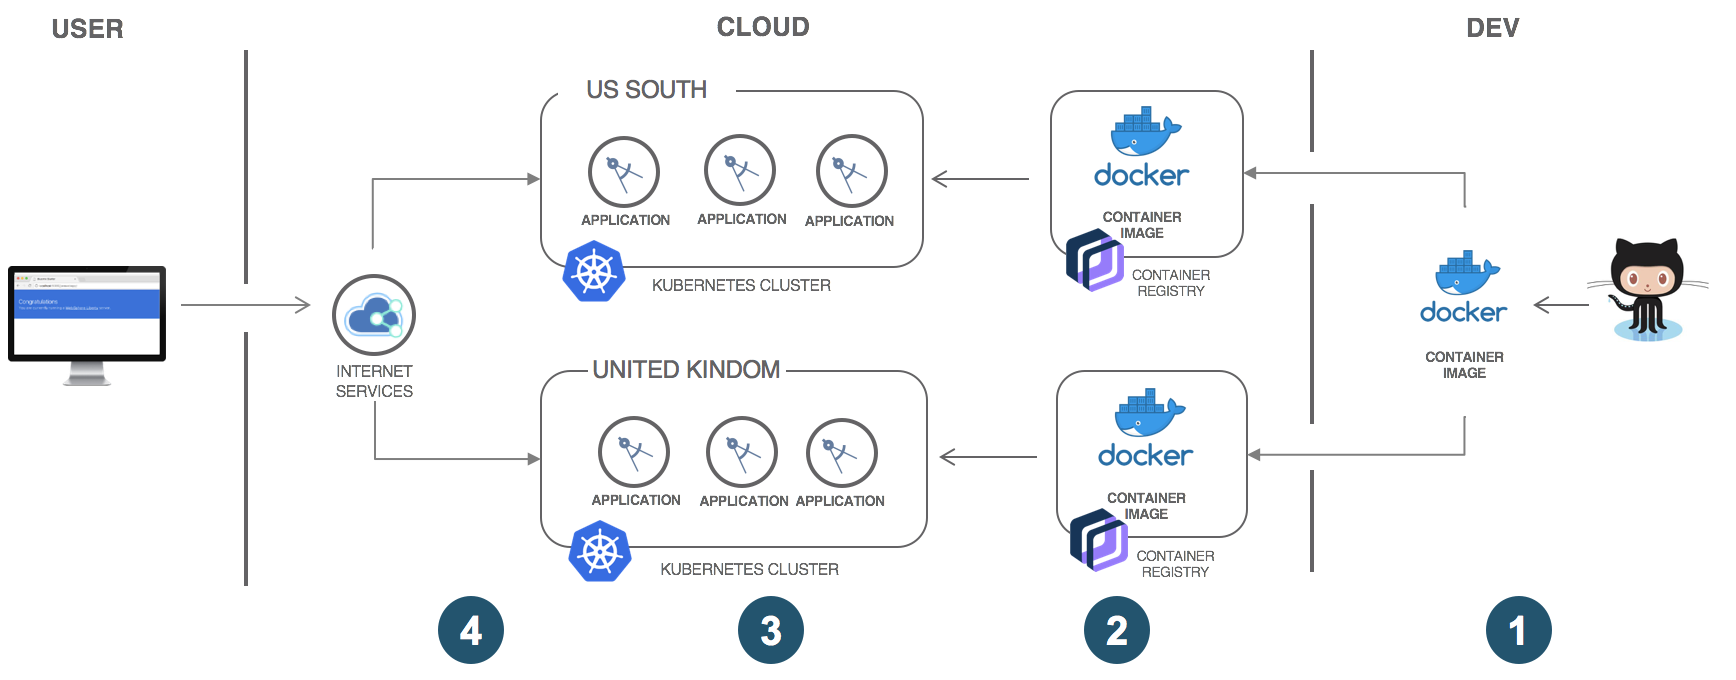
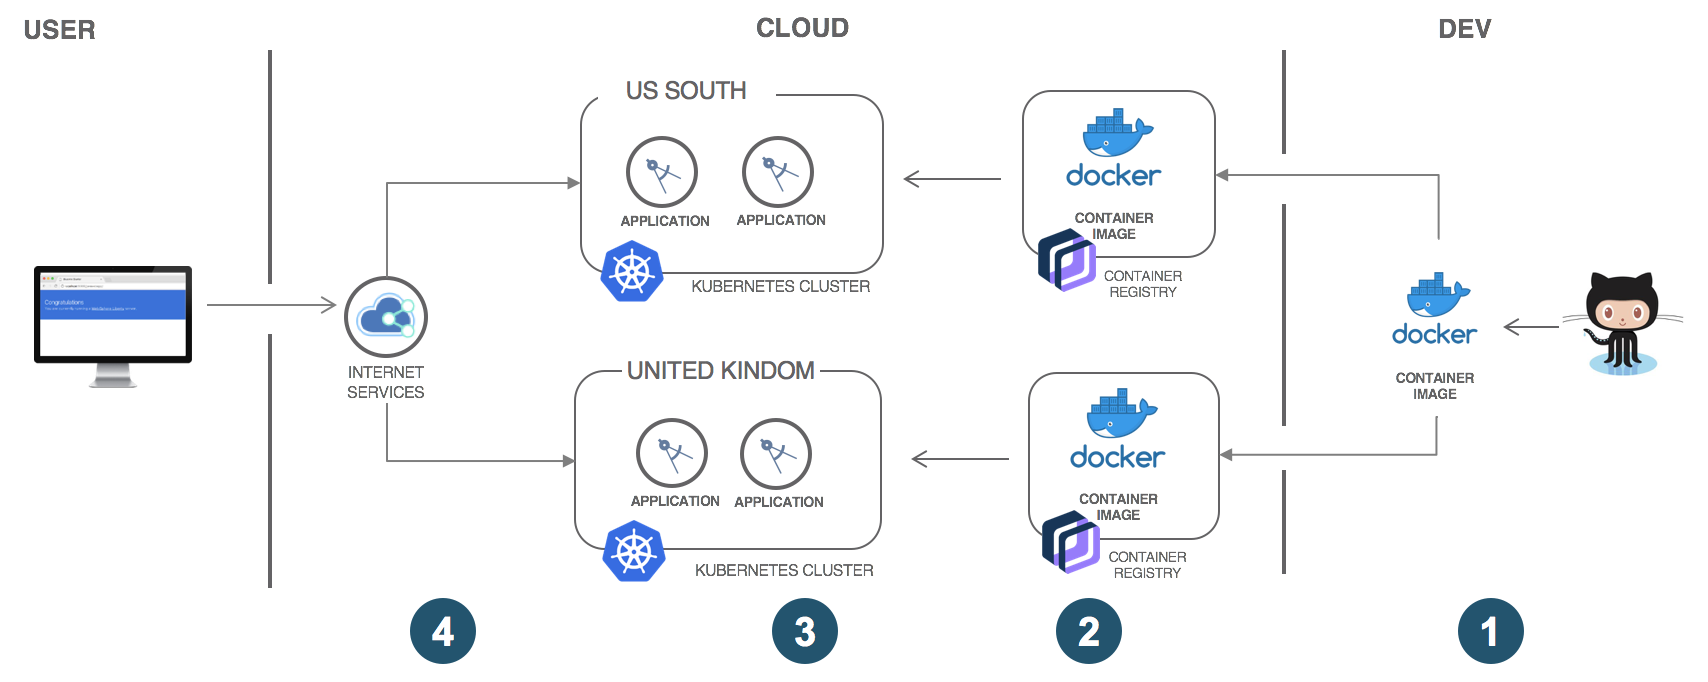
update: images

diff --git a/multi-region-k8s-cis.md b/multi-region-k8s-cis.md
@@ -53,7 +53,7 @@ This tutorial would incur costs. Use the [Pricing Calculator](https://console.bl
   ![Architecture](images/other/cis-iks.Architecture.png)
 </p>
 
-First of all, create IKS clusters across multiple regions and instance of CIS, then -
+First of all, ensure IKS cluster and instance of CIS are available. Or, create IKS clusters across multiple regions and instance of CIS. After that
 
 1. The developer builds the application produces a Docker container image and pushes the image to IBM Container Registry
 
@@ -72,24 +72,8 @@ First of all, create IKS clusters across multiple regions and instance of CIS, t
 * [Set up the {{site.data.keyword.registrylong_notm}} CLI and your registry namespace](https://console.bluemix.net/docs/services/Registry/registry_setup_cli_namespace.html)
 * [Understand the basics of Kubernetes](https://kubernetes.io/docs/tutorials/kubernetes-basics/)
 
-## Create Kubernetes clusters
-{: #create_clusters}
-
-### Create Kubernetes cluster in one region, e.g.`United Kingdom`
-1. Create **Containers in Kubernetes Clusters** from the [{{site.data.keyword.Bluemix}} catalog](https://console.bluemix.net/containers-kubernetes/catalog/cluster/create) and choose the **Standard** cluster.
-
-   ![Kubernetes Cluster Creation on IBM Cloud](images/other/IKS.Cluster.Creation.GUI.png)
-2. Select **Region** `United Kingdom`. For convenience, use the name 　*`my-<region>-cluster`* to be consistent with this tutorial, specify *\<region>* to match with region selected, e.g. *uk* so cluster name looks like *my-uk-cluster*.
-3. The smallest **Machine type** with 2 **CPUs** and 4 **GB RAM** is sufficient for this tutorial. Select 2 **Worker node** and leave all other options set to defaults. Click **Create Cluster**.
-4. Check the status of your **Cluster** and **Worker Node** and wait for them to be **ready**.
-
-### Create Kubernetes cluster in other regions, e.g.`US South`
-* Repeat steps above for the other region you'd like to have cluster by selecting different **region**, e.g. `US South`, specify cluster name `my-<region>-cluster`, \<region> could be *us*
-
-**NOTE:** Do not proceed until your workers are ready.
-
 ## Create Instance of IBM Cloud Internet Services and register the custom domain 
-{: #domain_cis}
+{: #create_cis_instance}
 
 Cloud Internet Servcies(CIS) is one stop-shop service providing GLB, Caching, WAF/Page rule to secure your applications when ensurig the reliability and performace for your Cloud applicatios. 1st step to create instance per domain and then register the domain.
 
@@ -103,14 +87,30 @@ Cloud Internet Servcies(CIS) is one stop-shop service providing GLB, Caching, WA
     When the domain's status on the Overview page changes from *Pending* to *Active*, you can use the `dig <your_domain_name> ns` command to verify that the IBM Cloud name servers have taken effect.
     {:tip}
 
-## Target IBM Cloud CLI for your cluster and login IBM Cloud Registry correspondingnly
+## Create Kubernetes clusters
+{: #create_clusters}
+
+### Create Kubernetes cluster in one region, e.g.`United Kingdom`
+1. Create **Containers in Kubernetes Clusters** from the [{{site.data.keyword.Bluemix}} catalog](https://console.bluemix.net/containers-kubernetes/catalog/cluster/create) and choose the **Standard** cluster.
+
+   ![Kubernetes Cluster Creation on IBM Cloud](images/other/IKS.Cluster.Creation.GUI.png)
+2. Select **Region** `United Kingdom`. For convenience, use the name 　*`my-<region>-cluster`* to be consistent with this tutorial, specify *\<region>* to match with region selected, e.g. *uk* so cluster name looks like *my-uk-cluster*.
+3. The smallest **Machine type** with 2 **CPUs** and 4 **GB RAM** is sufficient for this tutorial. Select 2 **Worker nodes** and leave all other options set to defaults. Click **Create Cluster**.
+4. Check the status of your **Cluster** and **Worker Node** and wait for them to be **ready**.
+
+### Create Kubernetes cluster in other regions, e.g.`US South`
+* Repeat steps above for the other region you'd like to have cluster by selecting different **region**, e.g. `US South`, specify cluster name `my-<region>-cluster`, \<region> could be *us*
+
+**NOTE:** Do not proceed until your workers are ready.
+
+## Target IBM Cloud CLI for your cluster and login IBM Cloud Registry correspondingly
 {: #prep_steps}
 
 IBM Cloud CLI is working environment for Kuberetes cluster, different context of CLI for different Kuberetes cluster. Ensure to work with the resources within cluster context for specific Kubernetes cluster, such as deployment, services, pod, etc..
 
 **Notes:** Don't switch IBM Cloud CLI context until needed resources configured for your specific Kubernetes cluster. Since there are different clusters across multiple regions, repeat this step for clusters one by one which contain the applications being as the target for distributed requests from load balancer. 
 
-### Login IBM Cloud CLI and Set context for kubenetes cluster in your CLI
+### Login IBM Cloud CLI and set context for kubenetes cluster in your CLI
 1. Get the command to set the environment variable and download the Kubernetes configuration files.
     ```bash
     bx cs cluster-config <cluster_name_or_ID>
@@ -179,7 +179,7 @@ This step shows how to prepare Docker image for Kubernetes cluster containerized
 ### Scale up and expose service for access
 1. A `replica` is how Kubernetes accomplishes scaling out a deployment. A replica is a copy of a pod that already contains a running service. By having multiple replicas of a pod, you can ensure your deployment has the available resources to handle increasing load on your application.
     ```bash
-    kubectl scale deployment/hello-world-deployment --replicas=3
+    kubectl scale deployment/hello-world-deployment --replicas=2
     ```
      {: pre}
 2. Make the app accessible by exposing the deployment as a NodePort service. 
@@ -204,7 +204,7 @@ For now, your applications have been running within the kubernetes clusters acro
 ### Create Global Load Balancer of Cloud Internet Services
 {: #add_glb}
 
-#### Before creating a GLB, create a health check for the GLB.
+#### Before creating GLB, create health check for the GLB.
 
 1. In the Cloud Internet Services application, navigate to **Reliability** > **Global Load Balancer**, and at the bottom of the page, click **Create health check**.
 2. Enter the path that you want to monitor, for example, `/`, and select a type (HTTP or HTTPS). Typically you can create a dedicated health endpoint. Click **Provision 1 Instance**.
@@ -218,7 +218,7 @@ Repeat below five steps to create multple pools per your requirements. The origi
 5. Click **Provision 1 Instance**.
 
 
-#### Create a Global Load Balancer (GLB). 
+#### Create Global Load Balancer (GLB). 
 
 1. Click **Create Load Balancer**. 
 2. Enter a name under **Balancer hostname** for the Global Load Balancer. This name will also be part of your universal application URL (`http://<glb_name>.<your_domain_name>`), regardless of the region. 
@@ -250,15 +250,15 @@ Ingress resource is Kubernetes resource and managed by the IBM-provided applicat
             paths:
             - path: /
               backend:
-                serviceName: <application-service-name> 
+                serviceName: <application-service-name> 
                 servicePort: 80
     ```
-* Create Ingress resource for cluster. Ensure IBM Cloud CLI context for your cluster{:tip}
+* Create Ingress resource for cluster. Ensure IBM Cloud CLI context for your cluster{:tip}
     ```bash
     kubectl create -f <Ingress_resource_filename>.yaml
     ```
     It returns message like `ingress.extention "ingress_name" created`
-* List Ingress resource created, newly created ingress would be shown
+* List Ingress resource created, newly created ingress would be shown
     ```bash
     kubectl get ingress
     ```
@@ -268,10 +268,10 @@ Congratulations! For now, CIS GLB is configured before Kubernetes cluster across
 ## Secure applications in Kubernetes clusters 
 {: #proxy_setting}
 
-### Enable proxy mode providing DDoS protection and Caching
+Enable proxy mode providing DDoS protection and Caching
 Toggle ON proxy besides CIS GLB, it enables DDoS protection and caching for GLB so to applications defined in Kubernetes cluster. Use `dig _<glb_name>.<domain_name>`, original IP address is hid. All of your clients connect to CIS proxies.
-
-### 
+   ![CIS Proxy Toggle ON](images/other/cis.proxy.png)
+[Best practice to secure traffic and internet application via CIS](https://console.bluemix.net/docs/infrastructure/cis/managing-for-security.html#manage-your-ibm-cis-for-optimal-security)
 
 ## Remove resources
 {:removeresources}
